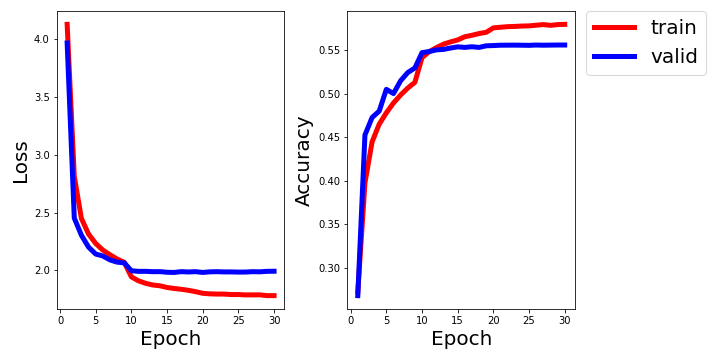
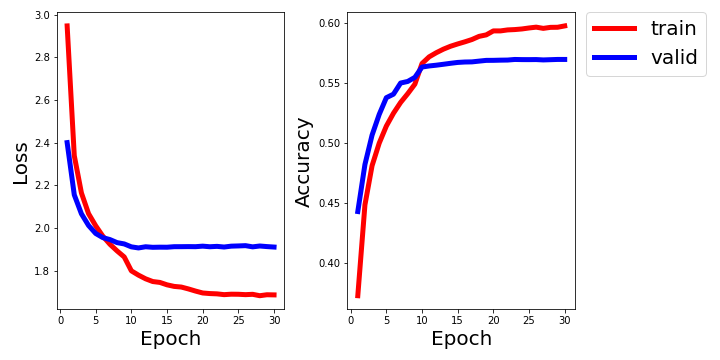
change to bi-LSTM

diff --git a/models.py b/models.py
@@ -42,8 +42,8 @@ class QstEncoder(nn.Module):
         super(QstEncoder, self).__init__()
         self.word2vec = nn.Embedding(qst_vocab_size, word_embed_size)
         self.tanh = nn.Tanh()
-        self.lstm = nn.LSTM(word_embed_size, hidden_size, num_layers)
-        self.fc = nn.Linear(1*num_layers*hidden_size, embed_size)     # 2 for hidden and cell states
+        self.lstm = nn.LSTM(word_embed_size, hidden_size, num_layers, bidirectional=True)
+        self.fc = nn.Linear(2*num_layers*hidden_size, embed_size)     # 2 for hidden and cell states
 
     def forward(self, question):
 
@@ -69,7 +69,8 @@ class VqaModel(nn.Module):
         super(VqaModel, self).__init__()
         self.img_encoder = ImgEncoder(embed_size)
         self.qst_encoder = QstEncoder(qst_vocab_size, word_embed_size, embed_size, num_layers, hidden_size)
-        self.tanh = nn.Tanh()
+#         self.tanh = nn.Tanh()
+        self.ReLU = nn.ReLU()
         self.dropout = nn.Dropout(0.5)
         self.fc1 = nn.Linear(embed_size, ans_vocab_size)
         self.fc2 = nn.Linear(ans_vocab_size, ans_vocab_size)
@@ -79,10 +80,10 @@ class VqaModel(nn.Module):
         img_feature = self.img_encoder(img)                     # [batch_size, embed_size]
         qst_feature = self.qst_encoder(qst)                     # [batch_size, embed_size]
         combined_feature = torch.mul(img_feature, qst_feature)  # [batch_size, embed_size]
-        combined_feature = self.tanh(combined_feature)
+        combined_feature = self.ReLU(combined_feature)
         combined_feature = self.dropout(combined_feature)
         combined_feature = self.fc1(combined_feature)           # [batch_size, ans_vocab_size=1000]
-        combined_feature = self.tanh(combined_feature)
+        combined_feature = self.ReLU(combined_feature)
         combined_feature = self.dropout(combined_feature)
         combined_feature = self.fc2(combined_feature)           # [batch_size, ans_vocab_size=1000]
 

diff --git a/train.py b/train.py
@@ -33,7 +33,7 @@ def main(args):
 
     qst_vocab_size = data_loader['train'].dataset.qst_vocab.vocab_size
     ans_vocab_size = data_loader['train'].dataset.ans_vocab.vocab_size
-    ans_unk_idx = data_loader['train'].dataset.ans_vocab.unk2idx
+    ans_unk_idx    = data_loader['train'].dataset.ans_vocab.unk2idx
 
     model = VqaModel(
         embed_size=args.embed_size,
